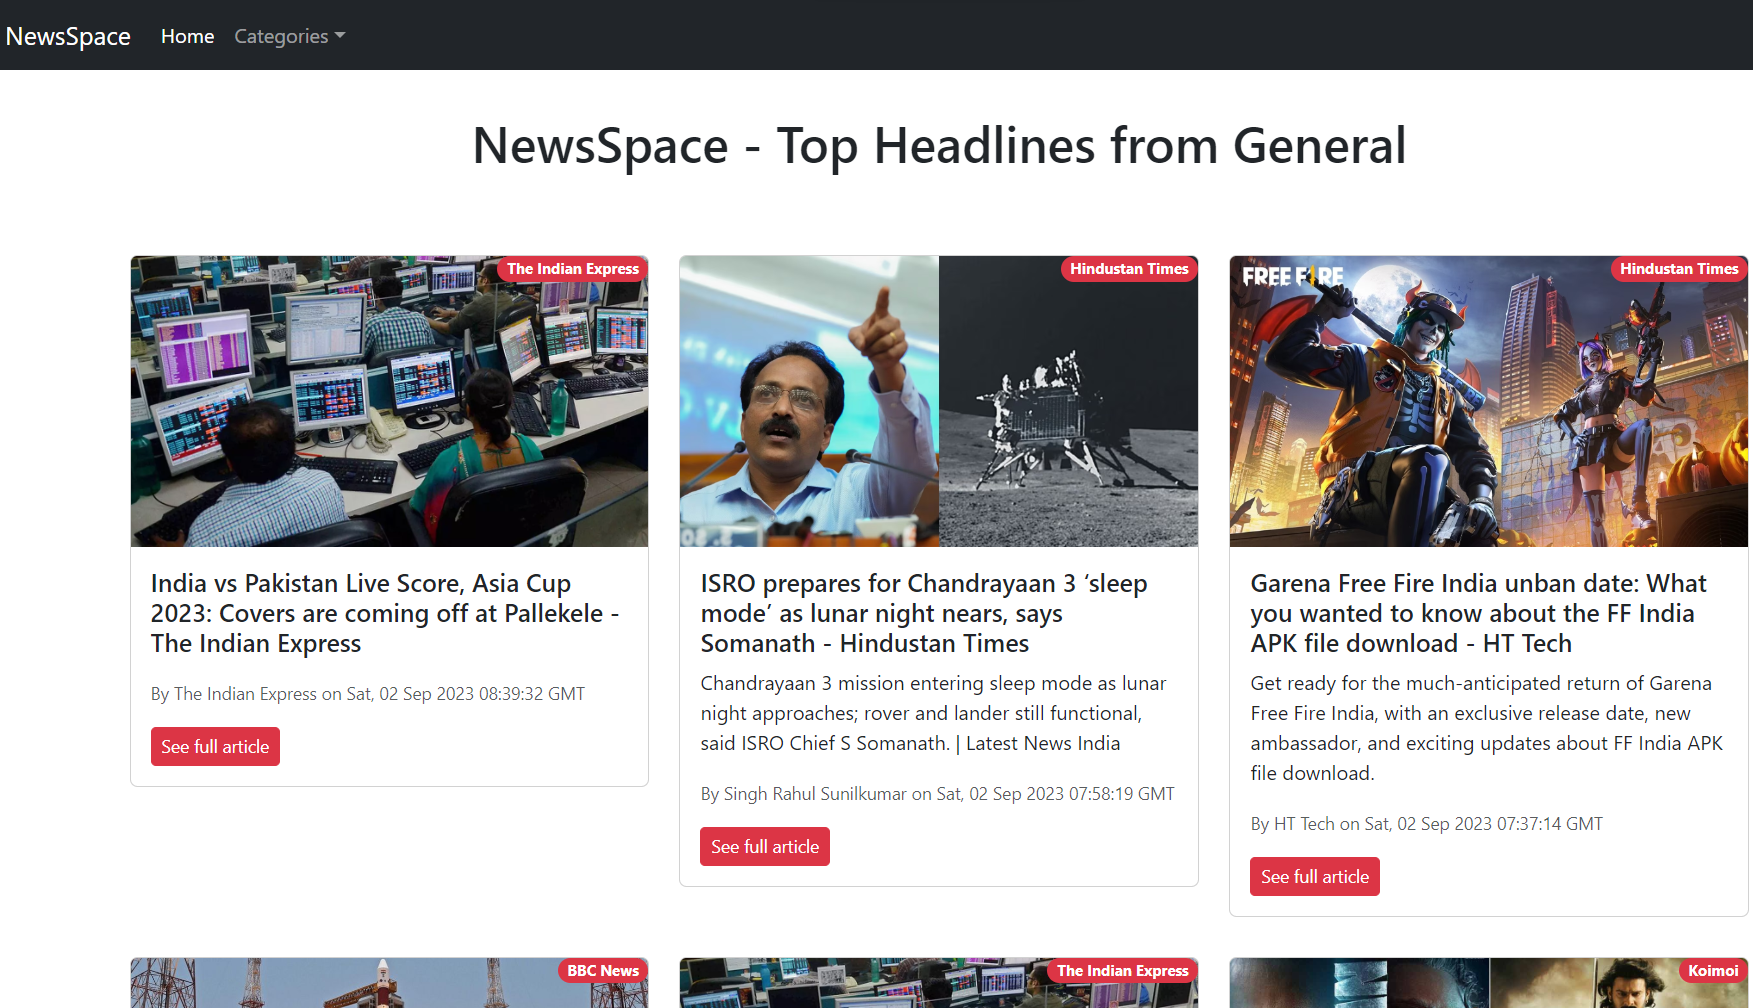
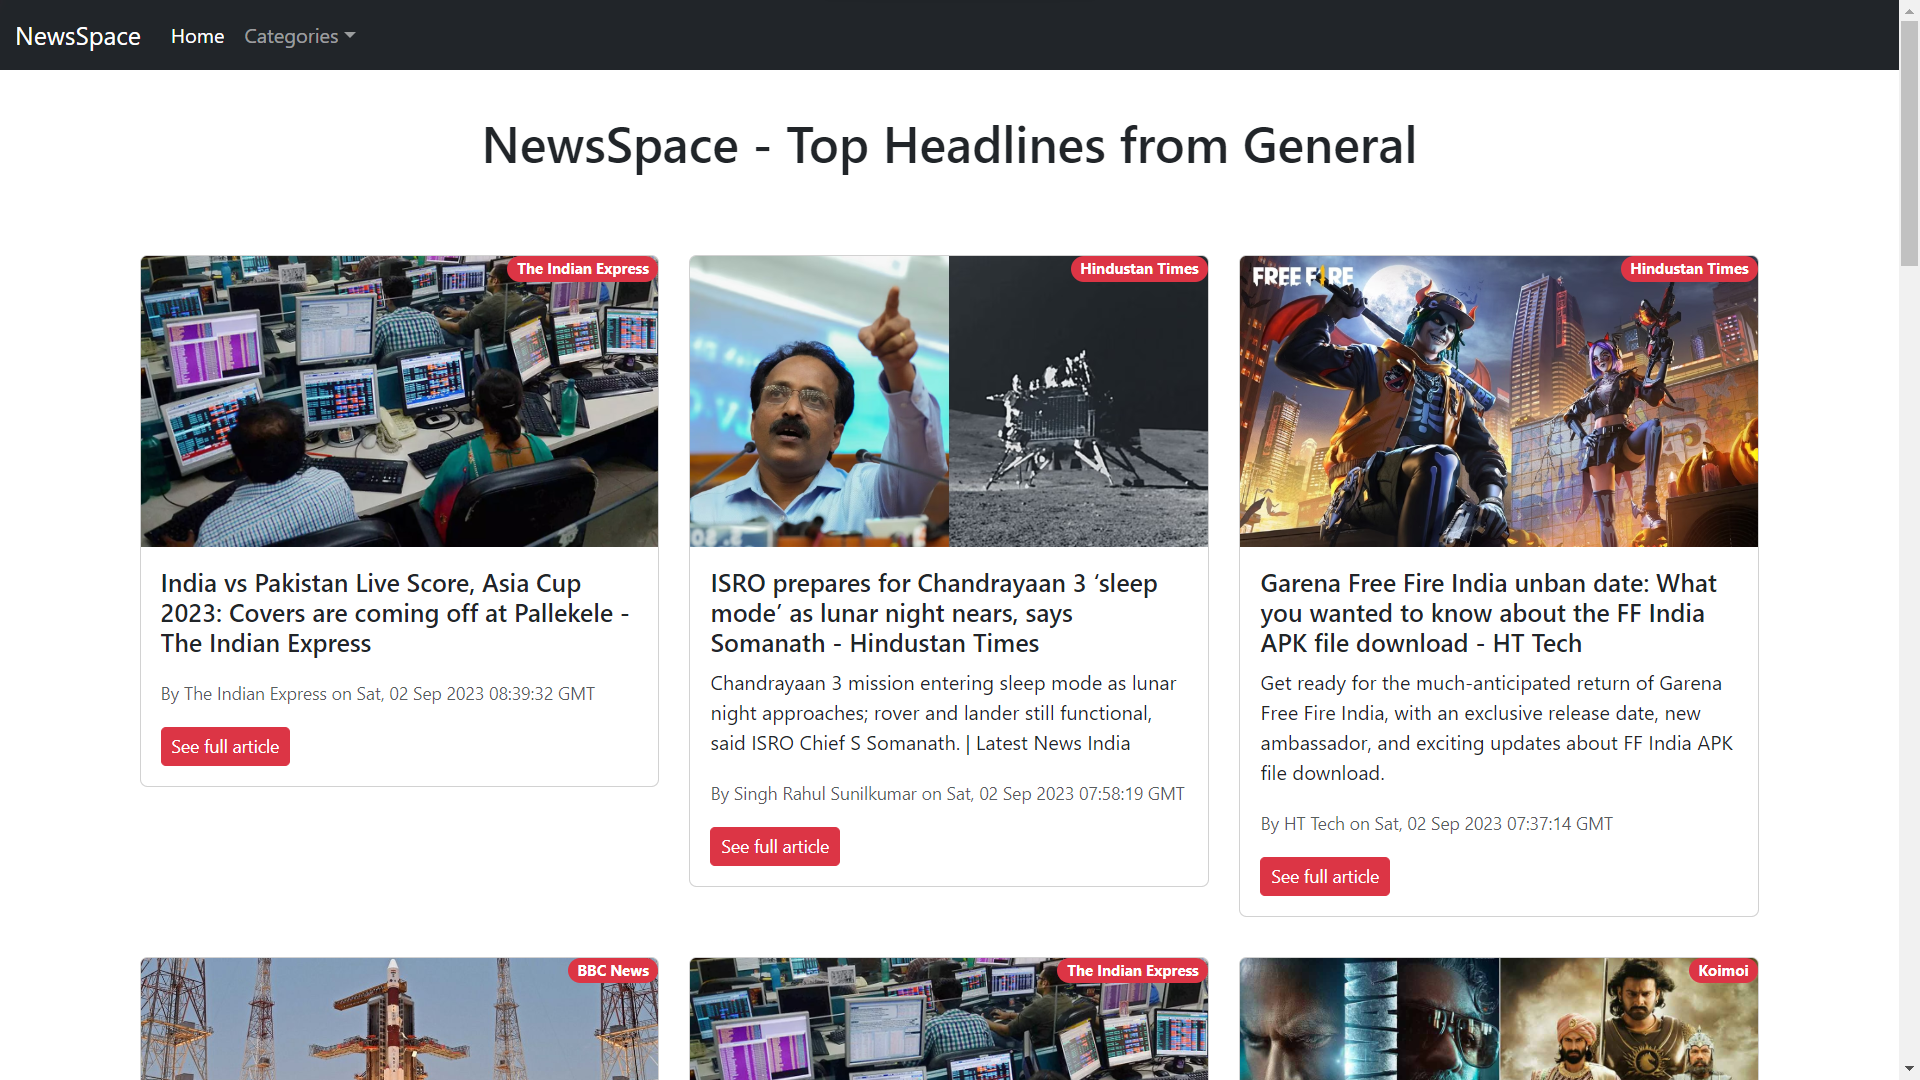
updated details

diff --git a/src/constants/index.js b/src/constants/index.js
@@ -15,19 +15,15 @@ import {
     git,
     figma,
     docker,
-    meta,
-    starbucks,
-    tesla,
-    shopify,
     threejs,
     Glimpse,
     NewsSpace,
     Gossip,
     student,
     frontend,
-    back,
-    comm,
-    learn
+    promptoasis,
+    resushape,
+    brainiac,
 } from "../assets";
 
 export const navLinks = [
@@ -47,11 +43,11 @@ export const navLinks = [
 
 const services = [
     {
-        title: "Web Developer",
+        title: "Full Stack Developer",
         icon: web,
     },
     {
-        title: "React Developer",
+        title: "MERN Stack Developer",
         icon: mobile,
     },
     {
@@ -121,55 +117,15 @@ const technologies = [
 
 const experiences = [
     {
-        title: "Front-End Development",
-        company_name: "",
+        title: "Full Stack Developer Intern",
+        company_name: "Learn and Build pvt ltd.",
         icon: frontend,
         iconBg: "#383E56",
         date: "",
         points: [
-            "Developed a series of responsive websites and interactive user interfaces.",
-            "Achieved proficiency in HTML5, CSS3, and JavaScript fundamentals.",
-            "Specialized in responsive web design for optimal user experiences.",
-            "Expertise in building single-page applications with React.js.",
-        ],
-    },
-    {
-        title: "Back-End Development",
-        company_name: "",
-        icon: back,
-        iconBg: "#E6DEDD",
-        date: "",
-        points: [
-            "Gained back-end development skills with Node.js and Express.",
-            "Integrated databases such as MongoDB and MySQL.",
-            "Created RESTful APIs for web applications.",
-            "Developed full-stack applications with a focus on functionality.",
-        ],
-    },
-    {
-        title: "Collaboration and Communication",
-        company_name: "",
-        icon: comm,
-        iconBg: "#383E56",
-        date: "",
-        points: [
-            "Collaborated effectively with diverse teams on web development projects.",
-            "Communicated ideas clearly and contributed to group success.",
-            "Utilized Git and GitHub for version control and collaborative coding.",
-            "Maintained a clean commit history and resolved merge conflicts.",
-        ],
-    },
-    {
-        title: "Continuous Learning and Skill Development",
-        company_name: "",
-        icon: learn,
-        iconBg: "#E6DEDD",
-        date: "",
-        points: [
-            "Committed to staying updated with the latest web development trends.",
-            "Actively participated in workshops and online courses.",
-            "Embraced challenges and problem-solving as opportunities for growth.",
-            "Implemented best practices in coding and development.",
+            "Developed and maintained full-stack applications using MERN Stack.",
+            "Collaborated with teams to implement AI-powered features",
+            "Contributed to the creation of innovative solutions for various web apps",
         ],
     },
 ];
@@ -203,46 +159,75 @@ const testimonials = [
 
 const projects = [
     {
-        name: "Gossip",
+        name: "ResuShape",
         description:
-            "Gossip is an engaging and user-friendly web chat application, facilitating real-time conversations, connecting people effortlessly, and fostering social connections online",
+            "Resushape is a platform for creating resumes using different templates",
         tags: [
             {
-                name: "nodejs",
+                name: "Nextjs",
                 color: "blue-text-gradient",
             },
             {
-                name: "expressjs",
+                name: "Django",
                 color: "green-text-gradient",
             },
             {
-                name: "css",
+                name: "Amazon S3",
                 color: "pink-text-gradient",
             },
+            {
+                name: "Latex",
+                color: "blue-text-gradient",
+            },
+            {
+                name: "Typescript",
+                color: "green-text-gradient",
+            },
         ],
-        image: Gossip,
-        source_code_link: "https://github.com/AdityaSinghRajawat/Gossip-ChattingApp",
+        image: resushape,
+        source_code_link: "https://github.com/Ad-30/resumemaker",
     },
     {
-        name: "NewsSpace",
+        name: "PromptOasis",
         description:
-            "Stay informed with breaking news and curated articles from around the world. Your go-to destination for timely, reliable, and personalized news updates.",
+            "PromptOasis is an AI-powered hub for sharing and creating prompts",
         tags: [
             {
-                name: "react",
+                name: "Nextjs",
                 color: "blue-text-gradient",
             },
             {
-                name: "newsapi",
+                name: "Typescript",
                 color: "green-text-gradient",
             },
             {
-                name: "bootstrap",
+                name: "NextAuth",
                 color: "pink-text-gradient",
             },
         ],
-        image: NewsSpace,
-        source_code_link: "https://github.com/AdityaSinghRajawat/NewsSpace-React",
+        image: promptoasis,
+        source_code_link: "https://github.com/AdityaSinghRajawat/PromptOasis-nextjs",
+    },
+    {
+        name: "Brainiac",
+        description:
+            "AI-powered SaaS platform offering diverse AI tools.",
+        tags: [
+            {
+                name: "Nextjs",
+                color: "blue-text-gradient",
+            },
+            {
+                name: "Clerk",
+                color: "green-text-gradient",
+            },
+            {
+                name: "AI tools",
+                color: "pink-text-gradient",
+            },
+        ],
+        image: brainiac,
+        source_code_link: "https://github.com/AdityaSinghRajawat/Brainiac-AI",
     },
     {
         name: "Glimpse",
@@ -263,7 +248,7 @@ const projects = [
             },
         ],
         image: Glimpse,
-        source_code_link: "https://github.com/",
+        source_code_link: "https://github.com/AdityaSinghRajawat/GlimpseServer",
     },
 ];
 

diff --git a/src/assets/index.js b/src/assets/index.js
@@ -36,7 +36,9 @@ import frontend from "./frontend.png"
 import back from "./back.png"
 import learn from "./learn.png"
 import comm from "./comm.jpg"
-
+import brainiac from "./brainiac.png"
+import promptoasis from "./promptoasis (2).png"
+import resushape from './resushape.png'
 
 export {
   logo,
@@ -71,5 +73,8 @@ export {
   frontend,
   learn,
   comm,
-  back
+  back,
+  brainiac,
+  promptoasis,
+  resushape
 };
